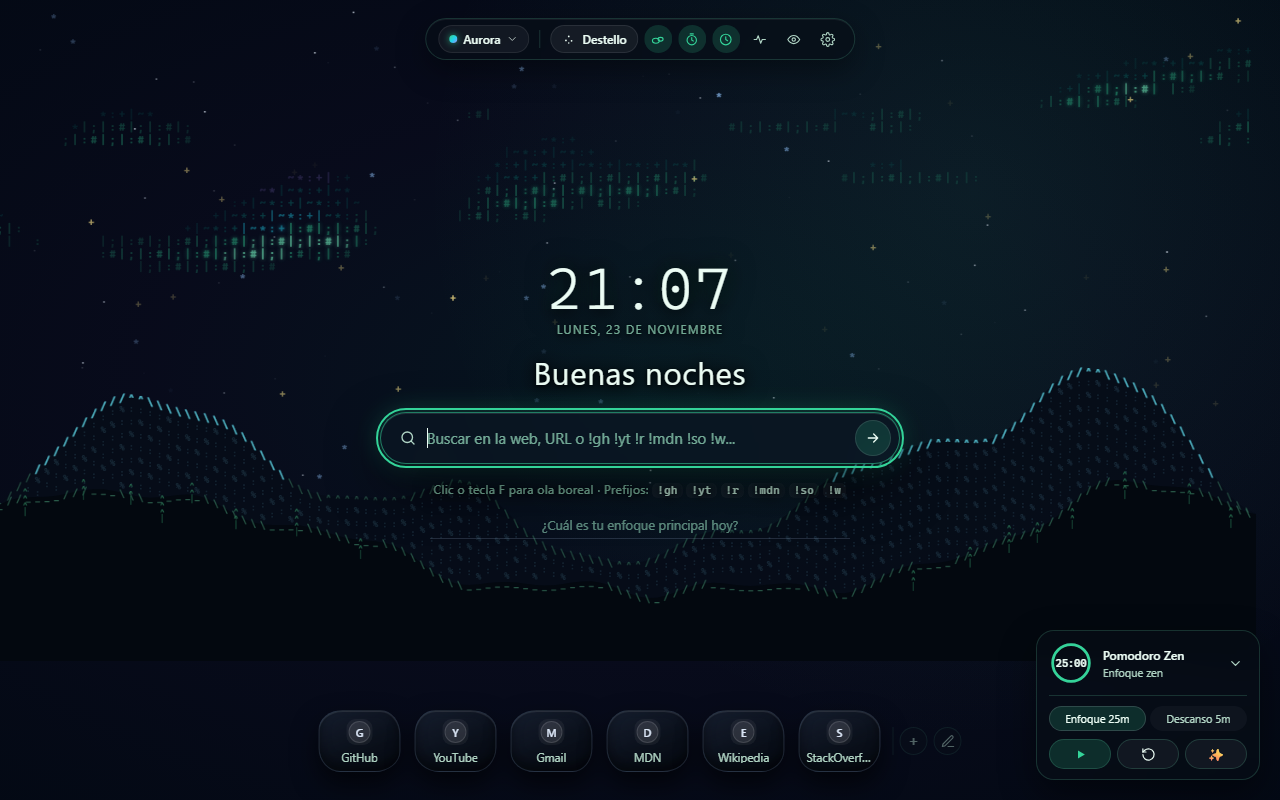
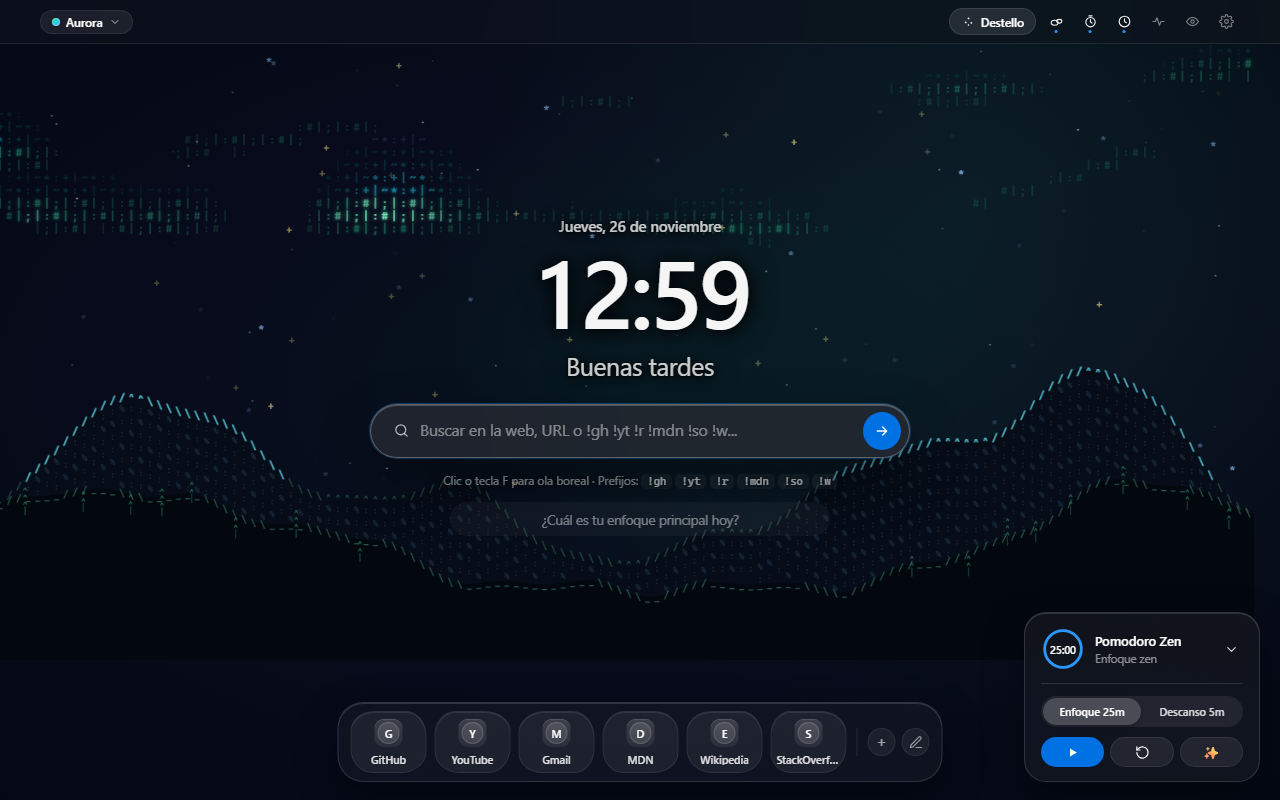
feat: release v2.3.0 with Apple-style UI redesign, Great Wave 3D biome, and updated previews

diff --git a/README.md b/README.md
@@ -41,11 +41,19 @@ Extensión **Manifest V3** interactiva, multilingüe (`es` / `en`) y sin depende
 ### Aurora Boreal Nocturna (`✨`)
 ![Aurora boreal luminosa en ASCII sobre cordillera alpina nocturna](docs/aurora-boreal.png)
 
+### La Gran Ola de Kanagawa 3D (Cultura Japonesa · `🌊`)
+![La Gran Ola de Kanagawa en arte ASCII 3D con espuma, barcas y Monte Fuji](docs/gran-ola.png)
+
+### Ajustes del Estanque (Interfaz estilo Apple)
+![Panel de ajustes agrupados estilo macOS System Settings con interruptor tipo píldora](docs/ajustes.png)
+
 ---
 
 ## Características
 
-- **Selector de Escenarios y Fondos (`Estanque`, `Mar`, `Arrecife`, `Invierno`, `Espacio` y `Aurora Boreal`):**
+- **Interfaz Estilo Apple (macOS / visionOS):**
+  - Barra de menú superior translúcida de ancho completo, reloj protagonista tipo pantalla de bloqueo, buscador tipo Spotlight con vidrio esmerilado, Dock translúcido con piedras de río orgánicas, popovers tipo Control Center con indicador `✓` y hoja de Ajustes agrupada con interruptores tipo píldora.
+- **Selector de Escenarios y Fondos (`Estanque`, `Mar`, `Arrecife`, `Invierno`, `Espacio`, `Aurora Boreal` y `Gran Ola 3D`):**
   - **Hábitats acuáticos:**
     - **Estanque:** Nenúfares ASCII con muesca en `"V"`, flores de loto, deriva suave, colisiones elásticas y oclusión 2.5D (*broad-phase* + *narrow-phase* al `22%` de opacidad sin brillo).
     - **Mar Abierto y Arrecife:** Corrientes marinas (`≈`, `~`, `·`), rayos de luz submarinos, algas ondulantes en los márgenes, 3 medusas abisales pulsantes, plancton bioluminiscente, burbujas ascendentes y un **cardumen de 45 micro-peces** acelerado mediante rejilla espacial (`SpatialHashGrid`).
@@ -53,6 +61,8 @@ Extensión **Manifest V3** interactiva, multilingüe (`es` / `en`) y sin depende
   - **Cosmos y cielo nocturno (no acuáticos):**
     - **Espacio Profundo (Agujero Negro ASCII):** Disco de acreción gravitacional en espiral kepleriana, anillo de fotones, arco sutil de lente gravitacional (*Einstein ring*), banda tenue de la Vía Láctea, estrellas 3D, **6 planetas únicos con lunas en órbita** y cámara orbital lenta 3D sin interferencia del puntero. Incluye 3 paletas estelares (*Dorado*, *Quásar Azul* y *Violeta*) y control de velocidad/pausa orbital (`Pausa`, `0.5×`, `1×`, `2×`).
     - **Aurora Boreal:** Cortinas electromagnéticas ondulantes en esmeralda, cian, violeta y magenta sobre cordillera alpina con crestas iluminadas, pinos y estrellas fugaces.
+  - **Cultura japonesa (no acuático):**
+    - **Gran Ola · Kanagawa 3D:** Recreación dinámica de *La Gran Ola de Kanagawa* en arte ASCII 3D con oleaje oceánico natural, espuma, barcas tradicionales y el Monte Fuji al fondo, con paralaje suave del puntero.
   - Alterna al instante entre el escenario cósmico/celeste activo y tu último hábitat acuático pulsando la tecla `B`.
 - **Selector de Fauna y Especies Articuladas (`GlyphAtlas`):**
   - **Peces Koi:** Columna vertebral articulada de 12 nodos, genética ponderada (*Kohaku*, *Yamabuki Ogon*, *Showa*, *Asagi*, más variantes raras *Tancho* 8% y *Butterfly Fantasma* 7%).
@@ -71,9 +81,9 @@ Extensión **Manifest V3** interactiva, multilingüe (`es` / `en`) y sin depende
   - Autocompletado interactivo al teclear `!`, bangs personalizados (solo HTTPS, con soporte `{q}`) configurables desde Ajustes y navegación directa de URLs.
 - **Reloj 12h/24h, Saludo Personalizado, Objetivo del Día y Atajos Rápidos:**
   - Formato horario `24h` / `12h`, nombre configurable en el saludo, campo minimalista de enfoque diario y atajos globales (`/` buscar, `F` alimentar/pulso, `R` lluvia, `B` alternar fondo, `P` Pomodoro, `Z` Zen).
-- **Temporizador Pomodoro Temático (`🌸`, `☄`, `✨`):**
-  - Widget colapsable con anillo circular SVG (*Enfoque 25:00* / *Descanso 05:00*) y botón de previsualización adaptado al escenario.
-  - Al completar una sesión de enfoque, activa una lluvia de pétalos de cerezo (`🌸`, durante 25 s en hábitats acuáticos), una **lluvia de meteoros + destello gravitacional (`☄`)** en Espacio Profundo, o una **tormenta geomagnética boreal (`✨`)** en Aurora Boreal.
+- **Temporizador Pomodoro Temático (`🌸`, `☄`, `✨`, `🌊`):**
+  - Widget colapsable de escritorio con anillo circular SVG (*Enfoque 25:00* / *Descanso 05:00*) y botón de previsualización adaptado al escenario.
+  - Al completar una sesión de enfoque, activa una lluvia de pétalos de cerezo (`🌸`, durante 25 s en hábitats acuáticos), una **lluvia de meteoros + destello gravitacional (`☄`)** en Espacio Profundo, una **tormenta geomagnética boreal (`✨`)** en Aurora Boreal, o una **marejada tempestuosa (`🌊`)** en La Gran Ola 3D.
 - **Modo Ahorro / Calidad Adaptativa, Respaldo JSON y Modo Zen:**
   - Pausa inteligente en segundo plano con Page Visibility API (simulación y reloj), indicador de FPS/`ms`, modo **Eco** (`Auto` con histéresis automática si `frameTimeMs > 24ms`, `Eco` a `30 FPS` sin brillo o `Alto`), sincronización `chrome.storage.sync` + exportar/importar JSON y **Modo Zen** (`Z` / `Esc`).
 
@@ -117,7 +127,7 @@ Escribe un prefijo seguido de un espacio al inicio de la barra de búsqueda para
 - `boot.js`: sincronización síncrona inicial de tema (`data-solar`, `data-biome`, `data-space-palette`, `data-zen`) antes del primer pintado.
 - `src/core/`: constantes, utilidades matemáticas, `ObjectPool`, internacionalización (`i18n.js`) y persistencia sincronizada entre pestañas/dispositivos + respaldo JSON (`storage.js`).
 - `src/render/`: atlas de glifos en `OffscreenCanvas` (`glyph-atlas.js`).
-- `src/ecosystem/`: nenúfares 2.5D (`lilies.js`), lluvia/pétalos/nieve (`weather.js`), capas oceánicas (`ocean.js`), espacio profundo 3D (`space.js`), aurora boreal (`aurora.js`) y fachada `PondEcosystem` (`ecosystem.js`).
+- `src/ecosystem/`: nenúfares 2.5D (`lilies.js`), lluvia/pétalos/nieve (`weather.js`), capas oceánicas (`ocean.js`), espacio profundo 3D (`space.js`), aurora boreal (`aurora.js`), Gran Ola 3D (`wave.js`) y fachada `PondEcosystem` (`ecosystem.js`).
 - `src/simulation/`: criaturas articuladas (`creature.js`, `species/*.js` incluyendo `manta.js` y `carp.js`), cardumen con `SpatialHashGrid` (`bait-school.js`) y `KoiPondEngine` con modo Eco (`engine.js`).
 - `src/productivity/`: validación de URLs/bangs (`url-utils.js`), accesos directos reordenables (`river-stones.js`), buscador con autocompletado (`smart-search.js`) y Pomodoro (`pomodoro.js`).
 - `src/ui/`: controladores modulares (`clock-greeting.js`, `zen-mode.js`, `biome-popover.js`, `fauna-popover.js`, `settings-modal.js`).
